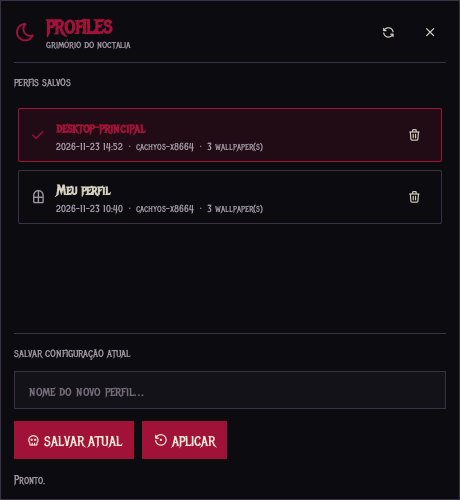
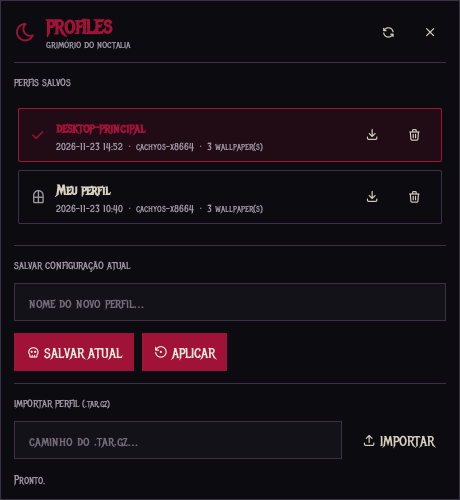
assets: store thumbnail, screenshots and updated panel image

diff --git a/README.md b/README.md
@@ -7,7 +7,7 @@ plugin de perfis góticos e todos os plugins futuros.
 
 | Plugin | ID | Descrição |
 |---|---|---|
-| Profiles | `victor/profiles` | Perfis completos de personalização do desktop (config, widgets, layout, molduras, fontes, cores, wallpaper e plugins) |
+| Profiles | `victor/profiles` | Perfis completos de personalização do desktop (config, widgets, layout, molduras, fontes, cores, wallpaper e plugins), com export/import em `.tar.gz` |
 
 ![Painel do plugin](docs/panel.png)
 
@@ -30,6 +30,18 @@ noctalia msg panel-toggle victor/profiles:profiles
 ```kdl
 Mod+Shift+P { spawn-sh "noctalia msg panel-toggle victor/profiles:profiles"; }
 ```
+
+## ✦ Exportar / importar perfis
+
+```bash
+noctalia-profile export desktop-principal                    # -> ~/Documents/noctalia-profiles/
+noctalia-profile export desktop-principal ~/Downloads/meu.tar.gz
+noctalia-profile import ~/Downloads/meu.tar.gz meu-tema --force
+```
+
+O pacote `.tar.gz` inclui `manifest.json`, `config/`, `settings.toml`,
+`plugins-data/` e `wallpapers/`. Também dá pelo painel: ícone de download em
+cada perfil e campo de importação.
 
 ## ✦ Atualizar
 
